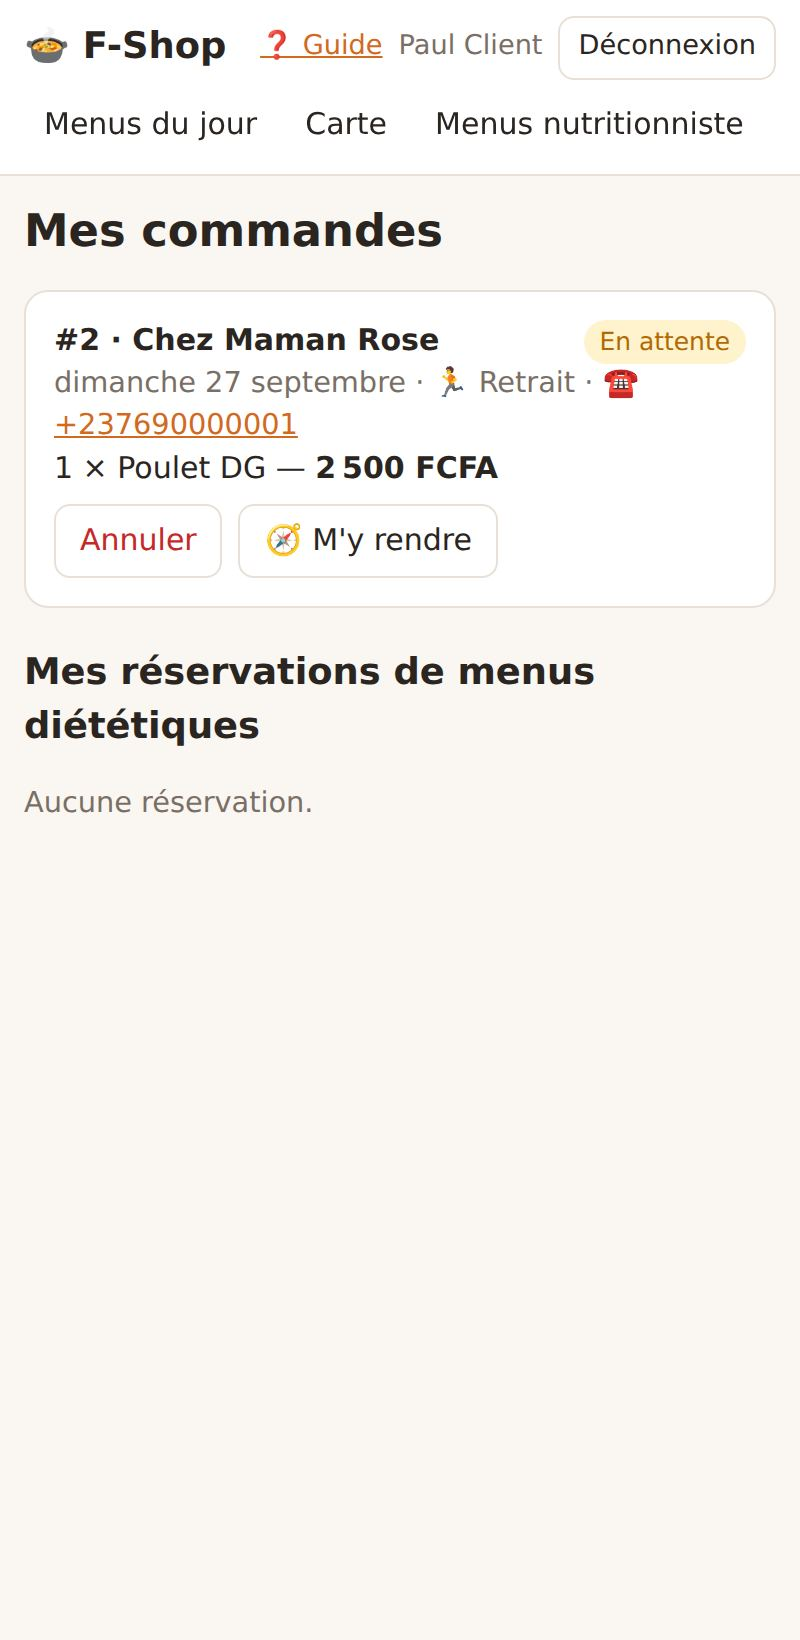
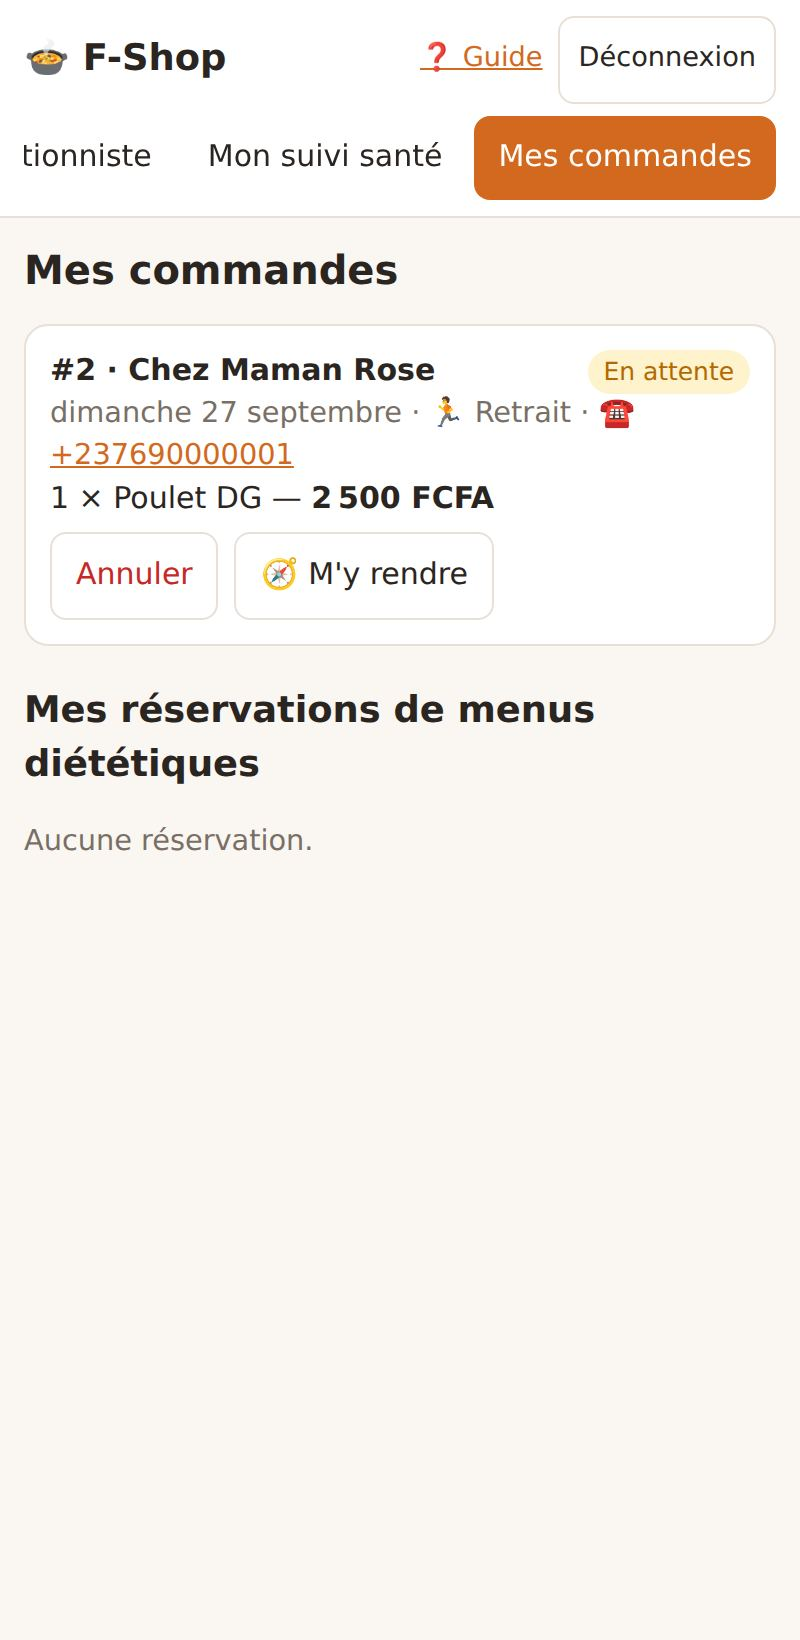
Mobile : interface responsive et confortable au toucher
Audit automatisé (320, 375, 414 px et paysage, tous profils, toutes pages) :
- plus aucun débordement horizontal (rangées de champs qui passent à la
  ligne, tableaux dans un cadre défilant, éditeur de repas et menu du
  jour en cartes sur téléphone)
- cibles tactiles d'au moins 44px, champs en 16px (pas de zoom auto iPhone)
- fenêtres en panneau bas sur téléphone, zones sûres (encoche) respectées
- onglet actif ramené à l'écran, barre compacte, barre non collante en paysage
- claviers adaptés (tel, numérique) et remplissage automatique
- captures du guide régénérées

Claude-Session: https://claude.ai/code/session_012dPWse5aBwVvVGPvbT27vz

Changed region(s): [[0.0312, 0.0, 0.9688, 0.3732], [0.0312, 0.4043, 0.75, 0.5287]]

diff --git a/public/app.js b/public/app.js
@@ -205,21 +205,35 @@ async function render() {
     .map(([href, label, cls]) => `<a href="${href}" class="${cls || ''} ${href === `#${path}` ? 'active' : ''}">${label}</a>`)
     .join('');
   $('#userbox').innerHTML = state.user
-    ? `<span>${esc(state.user.name)}</span><button id="logout">Déconnexion</button>`
+    ? `<span class="who">${esc(state.user.name)}</span><button id="logout">Déconnexion</button>`
     : '<a class="btn" href="#/login">Connexion</a><a class="btn primary" href="#/inscription">Créer un compte</a>';
   $('#userbox').insertAdjacentHTML('afterbegin', '<a href="/guide/" target="_blank" rel="noopener">❓ Guide</a>');
   $('#logout')?.addEventListener('click', () => logout());
+  // Sur téléphone, le menu défile : on amène l'onglet actif à l'écran
+  $('#nav a.active')?.scrollIntoView({ block: 'nearest', inline: 'center' });
   const view = ROUTES[path] || viewHome;
   const app = $('#app');
   app.innerHTML = '<p class="muted">Chargement…</p>';
   try {
     await view(app, params);
+    wrapTables(app);
   } catch (e) {
     app.innerHTML = `<div class="card"><p>${esc(e.message)}</p></div>`;
   }
 }
 
 window.addEventListener('hashchange', render);
+
+// Met chaque tableau dans un cadre défilant pour ne jamais élargir la page sur téléphone
+function wrapTables(root) {
+  $$('table', root).forEach((t) => {
+    if (t.id === 'items' || t.id === 'daily' || t.parentElement.classList.contains('table-scroll')) return;
+    const box = document.createElement('div');
+    box.className = 'table-scroll';
+    t.replaceWith(box);
+    box.append(t);
+  });
+}
 
 function needRole(app, ...roles) {
   if (!state.user) {
@@ -280,10 +294,10 @@ function viewRegister(app) {
             <option value="nutritionist">Nutritionniste</option>
             <option value="service">Service spécialisé (cuisine diététique)</option>
           </select></label>
-        <label>Nom complet<input name="name" required></label>
-        <label>Téléphone (WhatsApp)<input name="phone" type="tel"></label>
-        <label>Email<input name="email" type="email" required></label>
-        <label>Mot de passe (6 caractères min.)<input name="password" type="password" minlength="6" required></label>
+        <label>Nom complet<input name="name" required autocomplete="name"></label>
+        <label>Téléphone (WhatsApp)<input name="phone" type="tel" inputmode="tel" autocomplete="tel"></label>
+        <label>Email<input name="email" type="email" required autocomplete="email"></label>
+        <label>Mot de passe (6 caractères min.)<input name="password" type="password" minlength="6" required autocomplete="new-password"></label>
         <button class="primary">Créer mon compte</button>
       </form></div>`;
   $('#f').addEventListener('submit', async (e) => {
@@ -401,7 +415,7 @@ function checkout() {
         <div id="co-map" class="map small"></div>
         <label>Précisions d'adresse (quartier, repère…)<input name="address"></label>
       </div>
-      <label>Téléphone<input name="phone" type="tel" value="${esc(state.user.phone || '')}"></label>
+      <label>Téléphone<input name="phone" type="tel" inputmode="tel" autocomplete="tel" value="${esc(state.user.phone || '')}"></label>
       <label>Note pour la vendeuse<textarea name="note" rows="2"></textarea></label>
       <div class="row"><button class="primary">Confirmer la commande</button><button type="button" data-close>Annuler</button></div>
     </form>`, (root) => {
@@ -834,11 +848,11 @@ async function viewDaily(app, params) {
       <div class="row">${shopSelector(shops, shop.id)}${daySwitch(date)}<input type="date" id="dp" value="${date}" style="width:auto"></div></div>
     <div class="card"><h3>Plats disponibles ce jour</h3>
       <p class="muted">Cochez les plats du jour. Indiquez le nombre de portions pour arrêter les commandes automatiquement quand tout est vendu (vide = illimité).</p>
-      ${dishes.length ? `<table><tr><th></th><th>Plat</th><th>Prix</th><th>Portions</th><th>Reste</th></tr>
+      ${dishes.length ? `<table id="daily"><tr><th></th><th>Plat</th><th>Prix</th><th>Portions</th><th>Reste</th></tr>
         ${dishes.map((d) => `<tr><td><input type="checkbox" data-dish="${d.id}" style="width:auto" ${sel.has(d.id) ? 'checked' : ''}></td>
           <td>${esc(d.name)}</td><td>${money(d.price)}</td>
-          <td><input type="number" min="0" data-qty="${d.id}" value="${sel.get(d.id)?.quantity ?? ''}" style="width:90px"></td>
-          <td>${sel.has(d.id) ? (sel.get(d.id).remaining ?? '∞') : ''}</td></tr>`).join('')}
+          <td><input type="number" inputmode="numeric" min="0" data-qty="${d.id}" value="${sel.get(d.id)?.quantity ?? ''}" style="width:76px"></td>
+          <td class="remaining">${sel.has(d.id) ? (sel.get(d.id).remaining ?? '∞') : ''}</td></tr>`).join('')}
       </table>
       <div class="row" style="margin-top:8px"><button class="primary" id="save">Publier la sélection</button>
         <button id="copy">Reprendre le menu de la veille</button></div>`
@@ -1017,6 +1031,7 @@ async function patientDetail(el, p) {
   }));
   remindersSection($('#prem', el), p.id);
   chatSection($('#pchat', el), p.id);
+  wrapTables(el);
 }
 
 async function viewConsultations(app, params) {

diff --git a/public/style.css b/public/style.css
@@ -106,3 +106,68 @@ td, th { text-align: left; padding: 6px; border-bottom: 1px solid var(--line); v
 
 /* Laisse la place de la barre de menu fixe lors des défilements */
 main * { scroll-margin-top: 130px; }
+
+/* ================= Mobile / tactile ================= */
+/* Champs à 16px : évite le zoom automatique de l'iPhone au toucher d'un champ */
+input, select, textarea { font-size: 16px; }
+/* Cibles tactiles confortables (≈ 44px) et pas de délai au toucher */
+button, .btn, input:not([type=checkbox]):not([type=radio]):not([type=file]), select { min-height: 44px; }
+button, .btn { display: inline-flex; align-items: center; justify-content: center; gap: 4px; touch-action: manipulation; }
+input[type=checkbox] { width: 22px; height: 22px; accent-color: var(--brand); vertical-align: middle; }
+input[type=file] { padding: 9px; }
+.qty button { min-width: 44px; padding: 0; font-size: 1.2rem; }
+.days label { padding: 6px 4px; }
+/* Rangées de champs : passent à la ligne au lieu de déborder */
+.inline { flex-wrap: wrap; }
+.inline > * { flex: 1 1 150px; min-width: 0; }
+/* Tableaux larges : défilement horizontal dans leur propre cadre */
+.table-scroll { overflow-x: auto; -webkit-overflow-scrolling: touch; }
+.table-scroll > table { min-width: 100%; }
+img { max-width: 100%; }
+dialog { overscroll-behavior: contain; }
+#modal-body { overflow-wrap: anywhere; }
+#cartbar { bottom: calc(12px + env(safe-area-inset-bottom, 0px)); }
+
+@media (max-width: 640px) {
+  #nav a { padding: 10px 12px; }
+  h1 { font-size: 1.25rem; }
+  .card { padding: 12px; }
+  .grid { grid-template-columns: 1fr; }
+  #toasts { left: 12px; right: 12px; bottom: calc(80px + env(safe-area-inset-bottom, 0px)); }
+  .toast { max-width: none; }
+  dialog { width: 100vw; max-width: 100vw; max-height: 92dvh; margin: auto auto 0; border-radius: 16px 16px 0 0; }
+  #modal-body { padding: 16px 16px calc(16px + env(safe-area-inset-bottom, 0px)); }
+  .map { height: 300px; }
+}
+/* Éditeur de repas du plan : une carte par repas au lieu d'un tableau (téléphone, tablette) */
+@media (max-width: 900px) {
+  /* Éditeur de repas du plan : une carte par repas au lieu d'un tableau */
+  #items, #items tbody { display: block; }
+  #items tr:first-child { display: none; }
+  #items tr { display: grid; grid-template-columns: 1fr 1fr; gap: 6px; padding: 10px 0; border-bottom: 1px solid var(--line); }
+  #items td { padding: 0; border: 0; }
+  #items td:nth-child(4) { grid-column: 1 / -1; order: 5; }
+  #items td:nth-child(5) { justify-self: end; }
+}
+/* Paysage sur téléphone : la barre ne reste pas collée pour garder de la hauteur */
+@media (max-height: 480px) and (orientation: landscape) {
+  .topbar { position: static; }
+  .map { height: 220px; }
+}
+
+@media (max-width: 640px) {
+  #userbox .who { display: none; }
+  /* Menu du jour : une ligne par plat, lisible sans défilement horizontal */
+  #daily, #daily tbody { display: block; }
+  #daily tr:first-child { display: none; }
+  #daily tr { display: grid; grid-template-columns: auto 1fr auto; grid-template-areas: "chk name price" "chk qty rest"; gap: 4px 10px; align-items: center; padding: 10px 0; border-bottom: 1px solid var(--line); }
+  #daily td { padding: 0; border: 0; }
+  #daily td:nth-child(1) { grid-area: chk; }
+  #daily td:nth-child(2) { grid-area: name; font-weight: 600; }
+  #daily td:nth-child(3) { grid-area: price; color: var(--brand); font-weight: 700; }
+  #daily td:nth-child(4) { grid-area: qty; }
+  #daily td:nth-child(4)::before { content: "Portions "; color: var(--muted); font-size: .9rem; }
+  #daily td:nth-child(4) input { display: inline-block; }
+  #daily td.remaining { grid-area: rest; color: var(--muted); font-size: .9rem; }
+  #daily td.remaining:not(:empty)::before { content: "Reste "; }
+}

diff --git a/public/index.html b/public/index.html
@@ -2,7 +2,11 @@
 <html lang="fr">
 <head>
   <meta charset="utf-8">
-  <meta name="viewport" content="width=device-width, initial-scale=1">
+  <meta name="viewport" content="width=device-width, initial-scale=1, viewport-fit=cover">
+  <meta name="theme-color" content="#d2691e">
+  <meta name="mobile-web-app-capable" content="yes">
+  <meta name="apple-mobile-web-app-capable" content="yes">
+  <meta name="apple-mobile-web-app-title" content="F-Shop">
   <title>F-Shop · Menus & commandes de repas</title>
   <link rel="stylesheet" href="/vendor/leaflet/leaflet.css">
   <link rel="stylesheet" href="/style.css">
